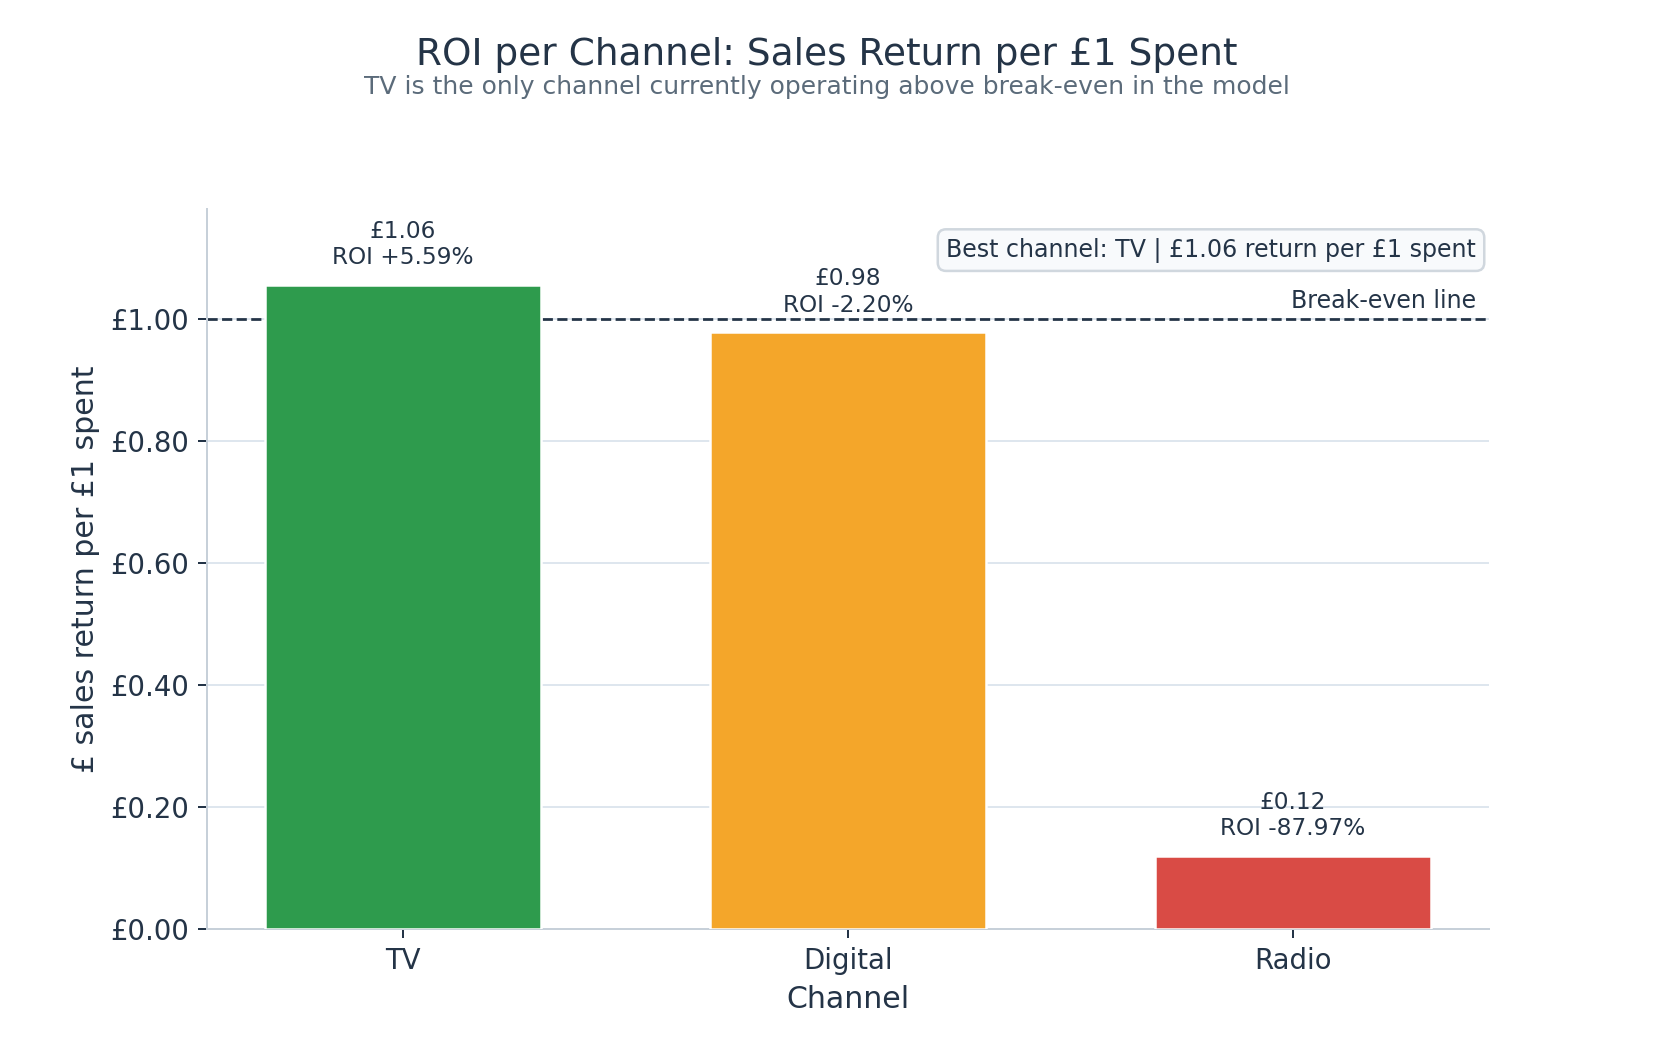
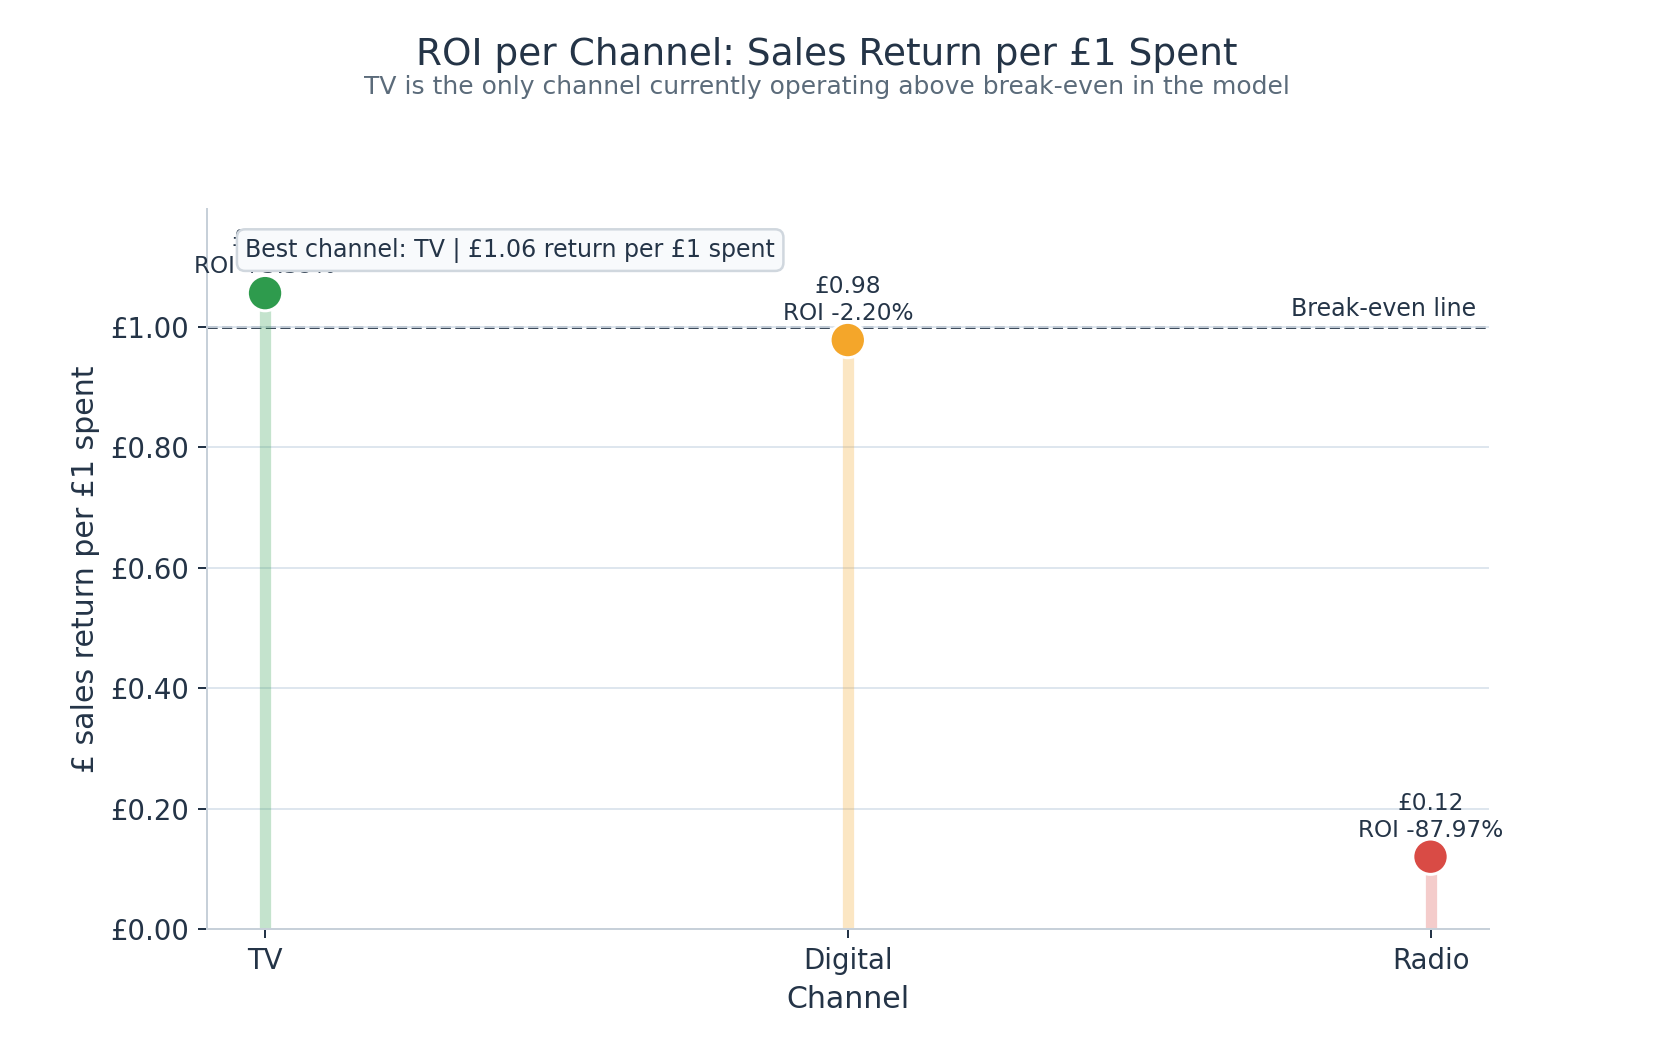
Day 65: Refine ROI comparison chart layout

Changed region(s): [[0.0617, 0.2146, 0.8942, 0.9502], [0.555, 0.2146, 0.8942, 0.2452]]

diff --git a/scripts/03_roi_calculator.py b/scripts/03_roi_calculator.py
@@ -130,16 +130,8 @@ def calculate_roi(df: pd.DataFrame, model: sm.regression.linear_model.Regression
 def save_roi_chart(roi_df: pd.DataFrame) -> None:
     fig, ax = plt.subplots(figsize=(9.2, 5.8))
 
+    x_positions = list(range(len(roi_df)))
     colors = [bar_color(value) for value in roi_df["return_per_£1"]]
-    bars = ax.bar(
-        roi_df["channel"],
-        roi_df["return_per_£1"],
-        color=colors,
-        width=0.62,
-        edgecolor="white",
-        linewidth=1.0,
-        zorder=3,
-    )
 
     add_title_block(
         fig,
@@ -147,7 +139,7 @@ def save_roi_chart(roi_df: pd.DataFrame) -> None:
         "TV is the only channel currently operating above break-even in the model",
     )
 
-    ax.axhline(y=1.0, color=TEXT, linestyle="--", linewidth=1.1, zorder=2)
+    ax.axhline(y=1.0, color=TEXT, linestyle="--", linewidth=1.1, zorder=1)
     ax.text(
         0.99,
         1.01,
@@ -159,16 +151,30 @@ def save_roi_chart(roi_df: pd.DataFrame) -> None:
         color=TEXT,
     )
 
+    for x_position, value, color in zip(x_positions, roi_df["return_per_£1"], colors):
+        ax.vlines(x=x_position, ymin=0.0, ymax=value, color=color, linewidth=4.5, alpha=0.28, zorder=2)
+
+    ax.scatter(
+        x_positions,
+        roi_df["return_per_£1"],
+        s=200,
+        color=colors,
+        edgecolors="white",
+        linewidths=1.2,
+        zorder=4,
+    )
+
     style_axes(ax)
     ax.set_xlabel("Channel")
     ax.set_ylabel("£ sales return per £1 spent")
     ax.yaxis.set_major_formatter(mticker.FuncFormatter(currency_formatter))
-    ax.set_ylim(0, max(1.18, roi_df["return_per_£1"].max() + 0.10))
+    ax.set_xticks(x_positions, roi_df["channel"])
+    ax.set_ylim(0.0, max(1.18, roi_df["return_per_£1"].max() + 0.14))
 
-    for bar, value, roi_value in zip(bars, roi_df["return_per_£1"], roi_df["roi"]):
+    for x_position, value, roi_value in zip(x_positions, roi_df["return_per_£1"], roi_df["roi"]):
         label = f"£{value:.2f}\nROI {roi_value:+.2%}"
         ax.text(
-            bar.get_x() + bar.get_width() / 2,
+            x_position,
             value + 0.025,
             label,
             ha="center",
@@ -183,11 +189,11 @@ def save_roi_chart(roi_df: pd.DataFrame) -> None:
         f"£{top_channel['return_per_£1']:.2f} return per £1 spent"
     )
     ax.text(
-        0.99,
+        0.03,
         0.96,
         summary,
         transform=ax.transAxes,
-        ha="right",
+        ha="left",
         va="top",
         fontsize=9.5,
         color=TEXT,
